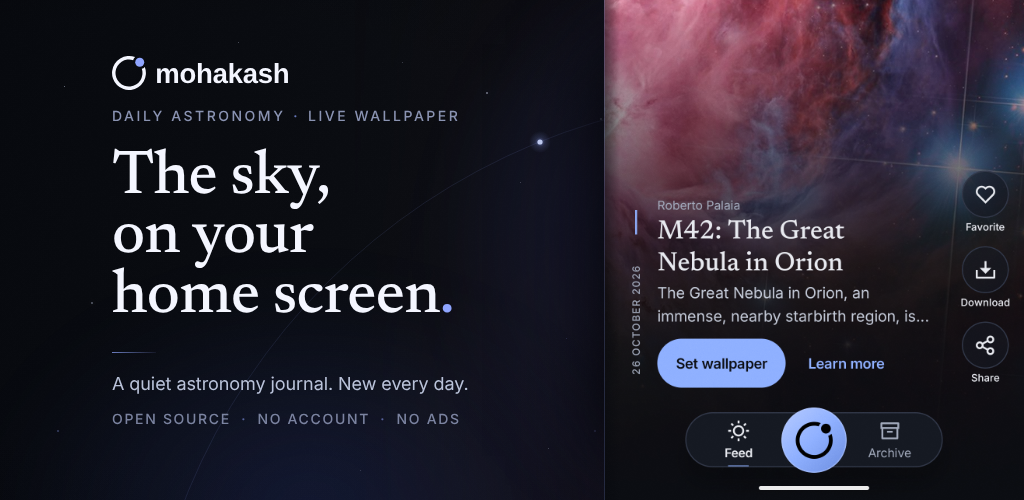
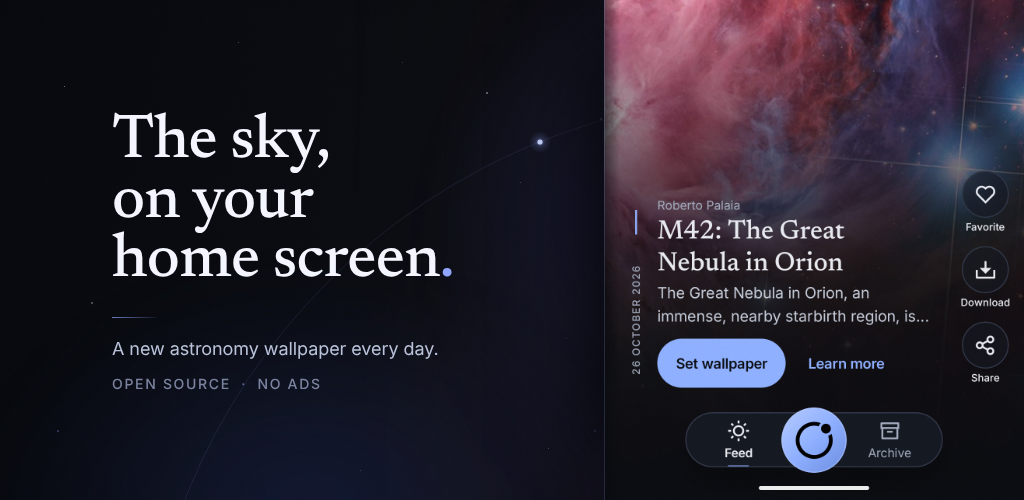
feat(feed): return to latest and favorite on double tap
- Tapping Feed in the Launch Cradle now clears feed filters and jumps to
  the newest APOD, including when the feed is already open on an older page.
- Double-tapping a feed picture toggles its favorite state; single tap still
  hides/shows the overlays. Added an accessible Favorite custom action.
- Refresh the feature graphic to the latest store copy.

diff --git a/android/app/src/main/java/app/mohakash/apod/ui/feed/FeedPageContent.kt b/android/app/src/main/java/app/mohakash/apod/ui/feed/FeedPageContent.kt
@@ -7,6 +7,7 @@ import androidx.compose.animation.fadeOut
 import androidx.compose.foundation.background
 import androidx.compose.foundation.border
 import androidx.compose.foundation.clickable
+import androidx.compose.foundation.combinedClickable
 import androidx.compose.foundation.interaction.MutableInteractionSource
 import androidx.compose.foundation.layout.Arrangement
 import androidx.compose.foundation.layout.Box
@@ -46,7 +47,10 @@ import androidx.compose.ui.platform.LocalConfiguration
 import androidx.compose.ui.platform.LocalContext
 import androidx.compose.ui.res.painterResource
 import androidx.compose.ui.res.stringResource
+import androidx.compose.ui.semantics.CustomAccessibilityAction
 import androidx.compose.ui.semantics.Role
+import androidx.compose.ui.semantics.customActions
+import androidx.compose.ui.semantics.semantics
 import androidx.compose.ui.text.font.FontWeight
 import androidx.compose.ui.text.style.TextAlign
 import androidx.compose.ui.text.style.TextOverflow
@@ -119,6 +123,9 @@ internal fun FeedPageContent(
     val credit = entry?.displayCredit ?: indexEntry?.displayCredit
     val teaser = entry?.explanation?.takeIf { it.isNotBlank() }
     val hydrationFailed = page.hydration == Hydration.FAILED
+    val favoriteActionLabel = stringResource(
+        if (isFavourite) R.string.feed_remove_favorite else R.string.feed_save,
+    )
 
     Box(
         modifier = modifier
@@ -132,12 +139,13 @@ internal fun FeedPageContent(
             contentDescription = entry?.altText ?: title.ifBlank { null },
         )
 
-        // A tap anywhere on the picture hides the reading overlay and the app's bottom bar.
-        // It sits below the chrome, so buttons and links keep their own clicks.
+        // A single tap hides the reading overlay and the app's bottom bar; a double tap
+        // favourites this APOD. The layer sits below the chrome, so buttons and links keep
+        // their own clicks.
         Box(
             modifier = Modifier
                 .fillMaxSize()
-                .clickable(
+                .combinedClickable(
                     interactionSource = remember { MutableInteractionSource() },
                     indication = null,
                     role = Role.Button,
@@ -145,7 +153,16 @@ internal fun FeedPageContent(
                         if (chromeVisible) R.string.feed_hide_chrome else R.string.feed_show_chrome,
                     ),
                     onClick = onToggleChrome,
-                ),
+                    onDoubleClick = { actions.onToggleFavourite(date) },
+                )
+                .semantics {
+                    customActions = listOf(
+                        CustomAccessibilityAction(favoriteActionLabel) {
+                            actions.onToggleFavourite(date)
+                            true
+                        },
+                    )
+                },
         )
 
         AnimatedVisibility(

diff --git a/android/app/src/main/java/app/mohakash/apod/ui/navigation/MohakashApp.kt b/android/app/src/main/java/app/mohakash/apod/ui/navigation/MohakashApp.kt
@@ -68,6 +68,7 @@ fun MohakashApp(
     val showBottomBar = currentRoute == Routes.TODAY || currentRoute == Routes.ARCHIVE
     var feedFullscreen by remember { mutableStateOf(false) }
     var randomRequest by remember { mutableIntStateOf(0) }
+    var latestRequest by remember { mutableIntStateOf(0) }
     var openArchiveOnSaved by remember { mutableStateOf(false) }
     var onboardingCompleted by remember {
         mutableStateOf(startDestination != Routes.ONBOARDING)
@@ -115,6 +116,7 @@ fun MohakashApp(
                             randomRequest += 1
                         },
                         onSelect = { destination ->
+                            if (destination == BottomDestination.FEED) latestRequest += 1
                             navController.navigate(destination.route) {
                                 popUpTo(Routes.TODAY) { saveState = true }
                                 launchSingleTop = true
@@ -166,6 +168,8 @@ fun MohakashApp(
                         },
                         randomRequest = randomRequest,
                         onRandomRequestConsumed = { randomRequest = 0 },
+                        latestRequest = latestRequest,
+                        onLatestRequestConsumed = { latestRequest = 0 },
                         onFullscreenChange = { feedFullscreen = it },
                         bottomBarInset = bottomBarInset,
                     )
@@ -176,6 +180,7 @@ fun MohakashApp(
                         onOpenEntry = { date -> navController.navigate(Routes.detail(date)) },
                         onOpenSettings = { navController.navigate(Routes.SETTINGS) },
                         onBrowseFeed = {
+                            latestRequest += 1
                             navController.navigate(Routes.TODAY) {
                                 popUpTo(Routes.TODAY) { saveState = true }
                                 launchSingleTop = true

diff --git a/android/app/src/main/java/app/mohakash/apod/ui/feed/FeedScreen.kt b/android/app/src/main/java/app/mohakash/apod/ui/feed/FeedScreen.kt
@@ -70,6 +70,8 @@ fun FeedScreen(
     onOpenSaved: () -> Unit = {},
     randomRequest: Int = 0,
     onRandomRequestConsumed: () -> Unit = {},
+    latestRequest: Int = 0,
+    onLatestRequestConsumed: () -> Unit = {},
     onFullscreenChange: (Boolean) -> Unit = {},
     bottomBarInset: Dp = 0.dp,
 ) {
@@ -166,6 +168,15 @@ fun FeedScreen(
         }
     }
 
+    // Tapping the Feed destination always returns to the newest APOD, even when the pager
+    // was left on an older picture or a filter was active.
+    LaunchedEffect(latestRequest) {
+        if (latestRequest > 0) {
+            viewModel.showLatest()
+            onLatestRequestConsumed()
+        }
+    }
+
     val actions = remember(viewModel, onOpenEntry, onOpenSettings, onOpenLink) {
         FeedPageActions(
             onOpenEntry = onOpenEntry,
@@ -196,10 +207,7 @@ fun FeedScreen(
         },
         onPageSettled = viewModel::onPageSettled,
         onConsumeJump = viewModel::consumeJumpRequest,
-        onBackToLatest = {
-            val firstDate = state.pages.firstNotNullOfOrNull { it.date }
-            if (firstDate != null) viewModel.jumpToDate(firstDate) else viewModel.clearFilters()
-        },
+        onBackToLatest = viewModel::showLatest,
         onOpenSaved = onOpenSaved,
         onRetryAll = viewModel::retry,
         showSwipeHint = canShowSwipeHint,

diff --git a/android/app/src/main/java/app/mohakash/apod/ui/feed/FeedViewModel.kt b/android/app/src/main/java/app/mohakash/apod/ui/feed/FeedViewModel.kt
@@ -281,6 +281,22 @@ class FeedViewModel(
         emitJump(resolved, animate = false)
     }
 
+    /** Returns the feed to the newest APOD and clears any active feed filters. */
+    fun showLatest() {
+        if (filters.isActive) {
+            filters = FeedFilters()
+            rebuildPages(bumpListVersion = true)
+        }
+        val latest = latestDate
+            ?: allDateItems().firstOrNull()?.date
+            ?: _state.value.pages.firstNotNullOfOrNull { it.date }
+        if (latest == null) {
+            refreshLatest()
+        } else {
+            jumpToDate(latest)
+        }
+    }
+
     /** Called by the pager once it has applied [FeedJumpRequest]. */
     fun consumeJumpRequest(token: Long) {
         _state.update { current ->

diff --git a/store-assets/README.md b/store-assets/README.md
@@ -19,8 +19,8 @@ and F-Droid consume:
 | 06 | Languages | **In your language.** | The interface, in fourteen languages. |
 
 Feature graphic copy: **“The sky, on your home screen.”**
-Support: “A quiet astronomy journal. New every day.”
-Trust line: “OPEN SOURCE · NO ACCOUNT · NO ADS”
+Product line: “A new astronomy wallpaper every day.”
+Colophon: “OPEN SOURCE · NO ADS”
 
 All claims are verifiable in the app: no account, no ads, open source, APOD
 metadata and images, 13 non-English UI locales plus English variants, live
